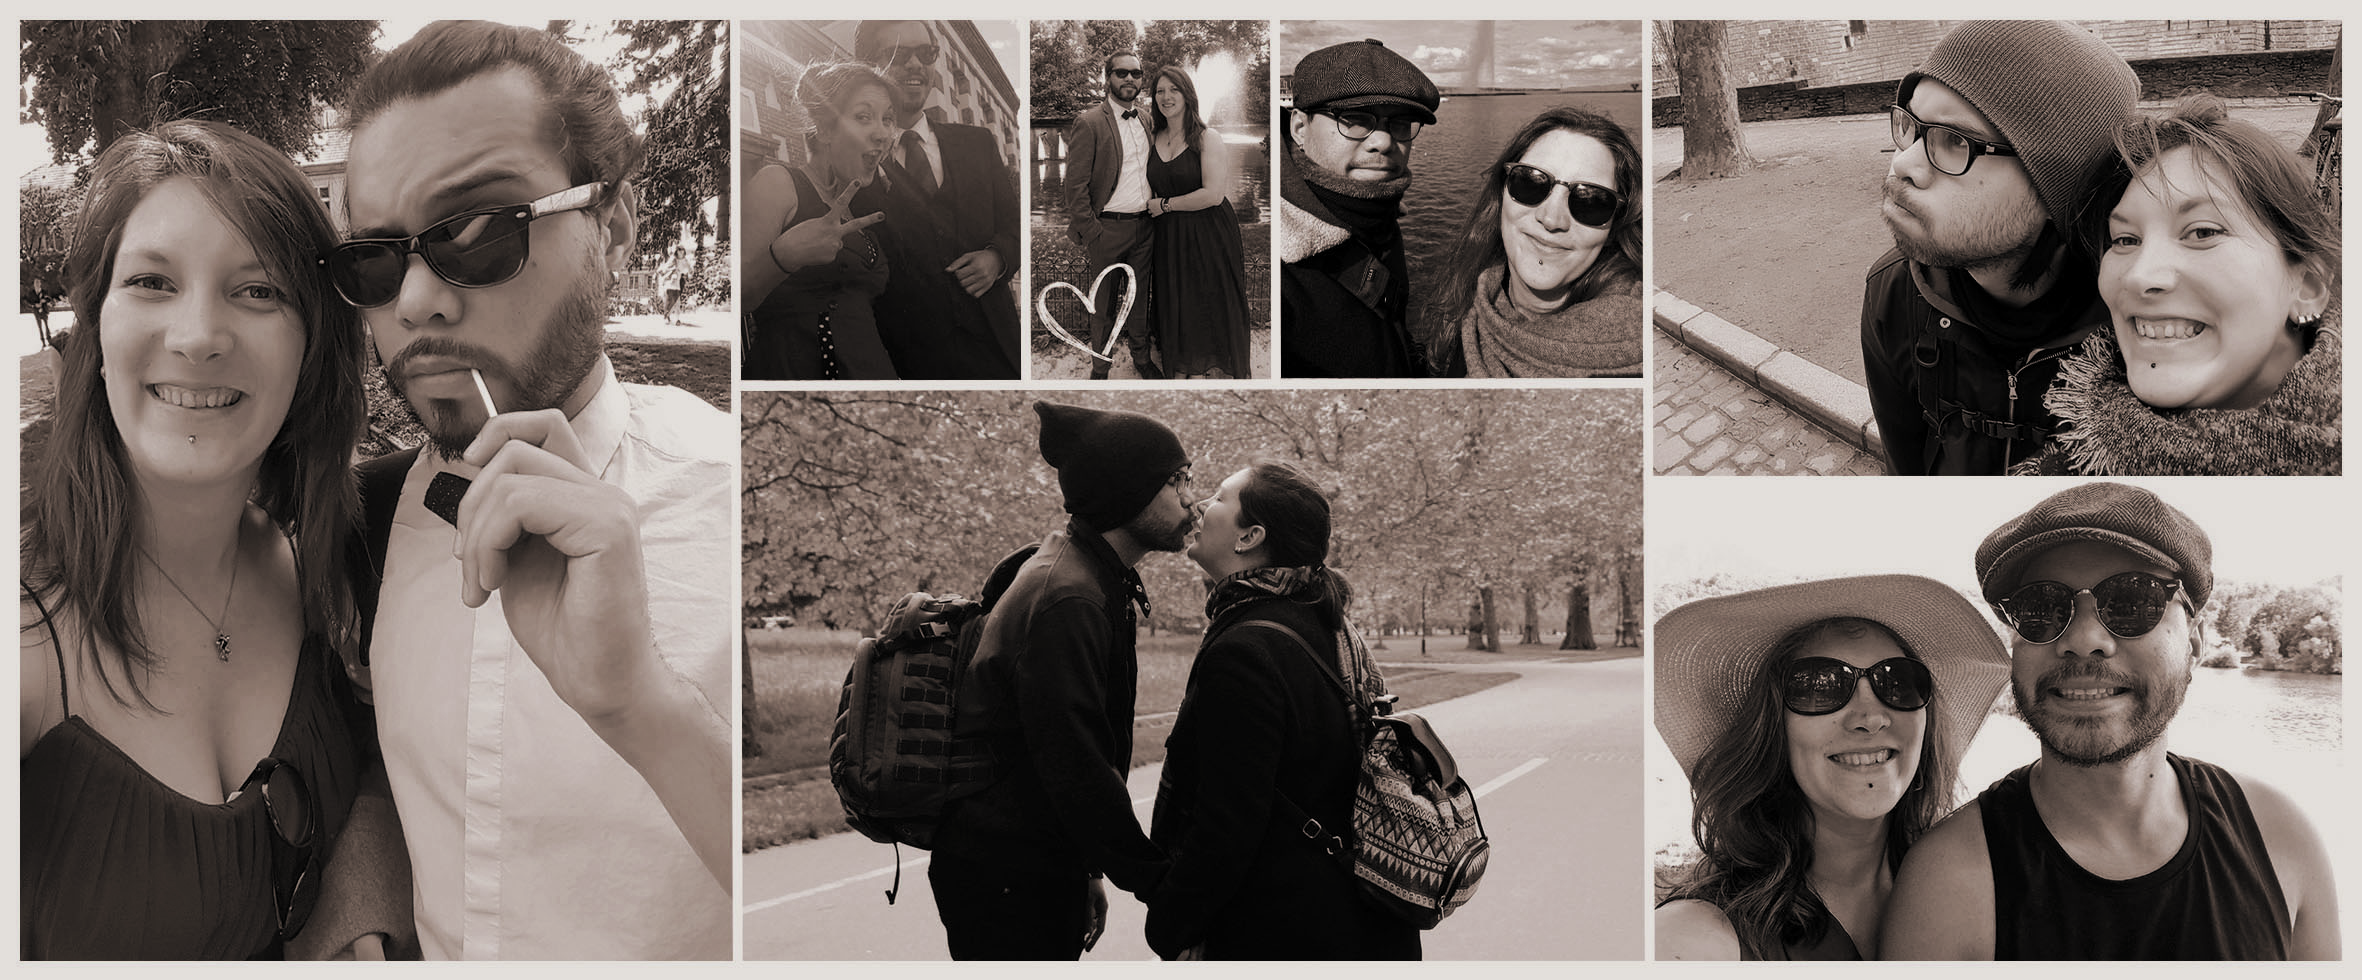
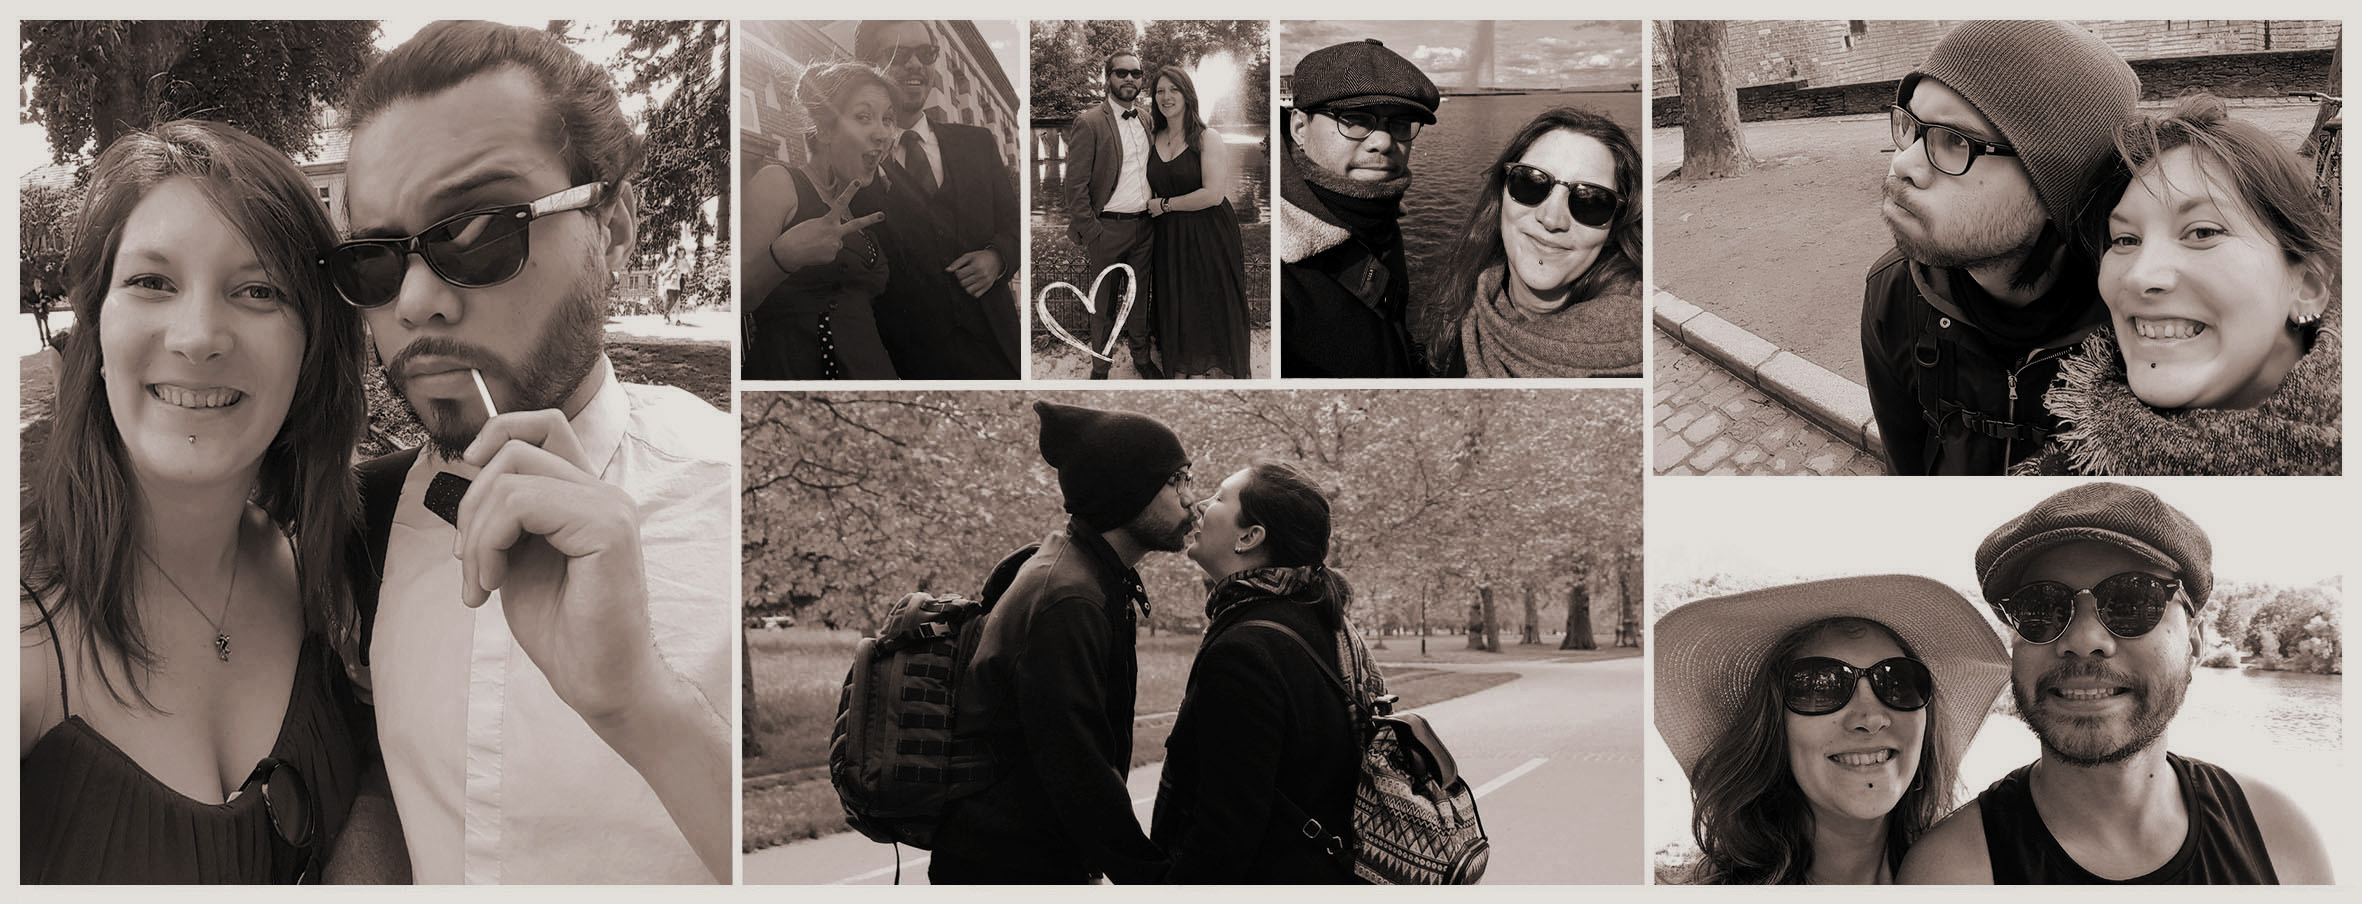
banière + programme
Redimensionner la bannière + Animation programme

diff --git a/css/style1.css b/css/style1.css
@@ -235,9 +235,16 @@ h2{
 
 #programme{
 	width: 75%;
-	margin-bottom: 1em;
-	max-width: 900px;}
+	max-width: 900px;
+	animation: scaleprog 700ms forwards ease-in-out;
+	opacity: 0;
+	animation-delay: 1200ms;}
 
+@keyframes scaleprog{
+	0% {transform: scale(0.2);}
+	70% {transform: scale(1.2);}
+	100% {transform: scale(1); opacity: 1;}
+}
 
 
 
